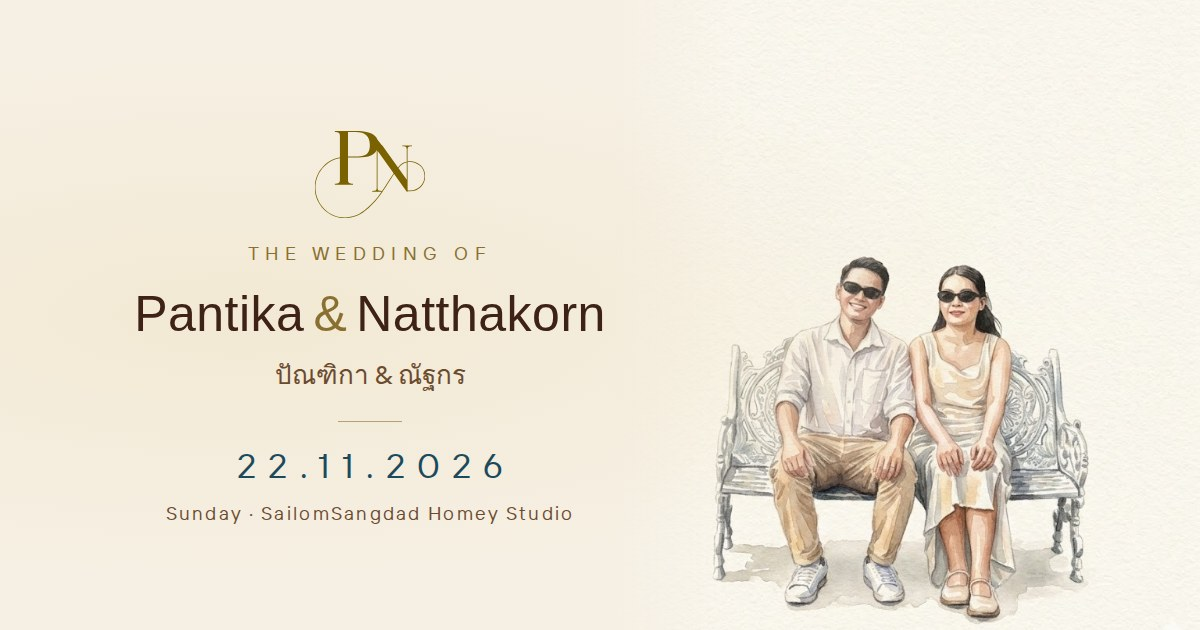
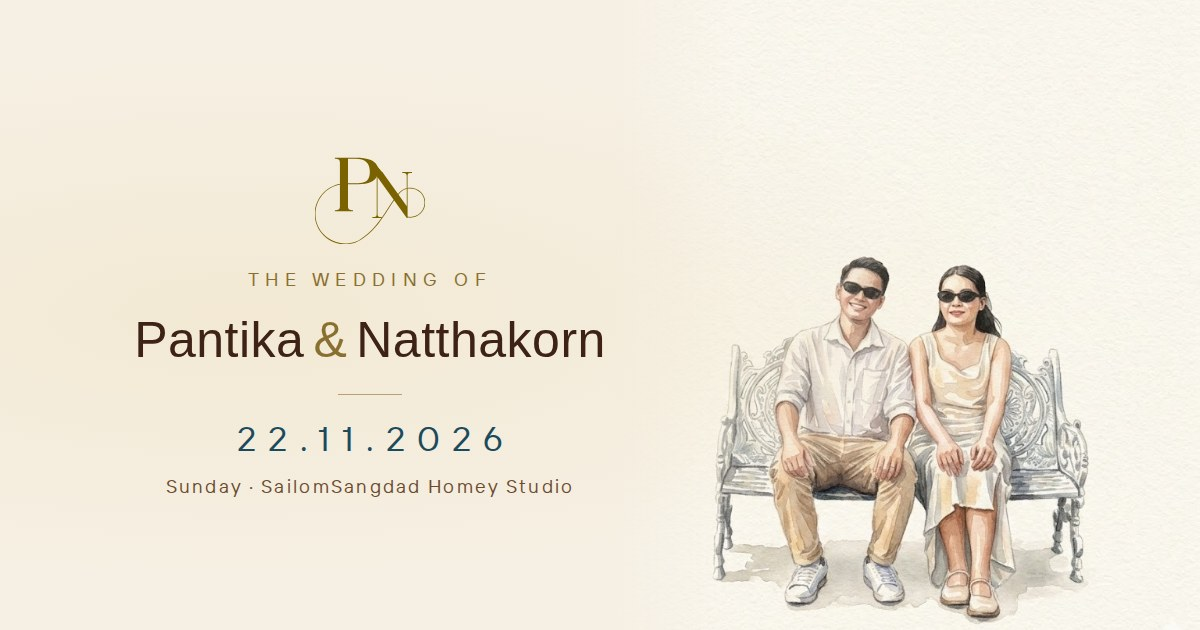
Drop Thai names from link-preview image and description
Claude-Session: https://claude.ai/code/session_0162WQCJb2Wd2gYyx6knxNCW

Changed region(s): [[0.0925, 0.3921, 0.5242, 0.6333], [0.1233, 0.6635, 0.4933, 0.8444], [0.2775, 0.181, 0.3392, 0.3619]]

diff --git a/index.html b/index.html
@@ -6,14 +6,14 @@
       <meta name="viewport" content="width=device-width, initial-scale=1.0" />
       <link rel="icon" type="image/svg+xml" href="/favicon.svg" />
       <title>Pantika &amp; Natthakorn · 22.11.2026</title>
-      <meta name="description" content="ขอเชิญร่วมงานมงคลสมรส ปัณฑิกา &amp; ณัฐกร · วันอาทิตย์ที่ 22 พฤศจิกายน 2569 · บ้านสายลมแสงแดด (SailomSangdad Homey Studio)" />
+      <meta name="description" content="ขอเชิญร่วมงานมงคลสมรส · วันอาทิตย์ที่ 22 พฤศจิกายน 2569 · บ้านสายลมแสงแดด (SailomSangdad Homey Studio)" />
 
       <!-- Link preview (LINE, Facebook, Messenger, iMessage) -->
       <meta property="og:type" content="website" />
       <meta property="og:url" content="https://pantika-natthakorn.com/" />
       <meta property="og:site_name" content="Pantika &amp; Natthakorn" />
       <meta property="og:title" content="Pantika &amp; Natthakorn · 22.11.2026" />
-      <meta property="og:description" content="ขอเชิญร่วมงานมงคลสมรส ปัณฑิกา &amp; ณัฐกร · วันอาทิตย์ที่ 22 พฤศจิกายน 2569 · บ้านสายลมแสงแดด" />
+      <meta property="og:description" content="ขอเชิญร่วมงานมงคลสมรส · วันอาทิตย์ที่ 22 พฤศจิกายน 2569 · บ้านสายลมแสงแดด" />
       <meta property="og:image" content="https://pantika-natthakorn.com/og-image.jpg" />
       <meta property="og:image:type" content="image/jpeg" />
       <meta property="og:image:width" content="1200" />
